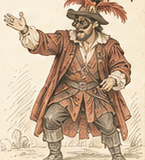
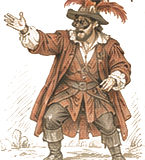
lesson 1: the leaf sprays, and ornaments that are actually cut out
I ASKED THE OWNER FOR A SPRIG I ALREADY HAD. His handoff says the assets
folder is crops from the concept rendering and that crops from it may be
used; the leaf spray is drawn eight times in that rendering. It needed
taking, not commissioning. One spray is cropped from the card corner at
(528,457)-(604,506), keyed to transparency, and set at the corner of each
principle card, beside the section heading, on the sage panel and in the
notes rail.

THE ORNAMENTS ARE CUT OUT NOW, which fixes a real defect rather than a
cosmetic one. They arrived as opaque parchment crops and were being
hidden with mix-blend-mode: multiply — which works on a parchment card
and FAILS on the terracotta panel, where the ground stayed visible as a
pink box behind the mask. The seven line-art ones are keyed in the asset
instead: parchment to alpha above a luminance threshold, ink kept below
it, a soft ramp between so the pen strokes keep their edges. The blend
mode is gone and they sit on any tint.

NOT KEYED: the hero and the notes thumbnail. Both are full-colour
paintings with bright sky and lamplight, and a luminance key would punch
holes straight through them.

sw.js bumped, and this is the case that REQUIRES it rather than merely
wanting it: seven images were REPLACED AT THEIR EXISTING PATHS. Those go
through cacheFirst, which never asks the network again, so without a bump
an installed copy would keep serving the opaque versions for good.

diff --git a/js/main.js b/js/main.js
@@ -4588,9 +4588,18 @@ function lessonOrnamentHtml(key) {
 // for CONCEPTS, practice and takeaways, and that continuous prose stays
 // prose — so this kind exists to carry the three ideas the lesson names,
 // not to chop paragraphs up.
+// THE SPRIG IS SET ONCE AND REUSED. It is decorative, so every instance
+// is aria-hidden and none of them is announced; the class decides where
+// it sits and which way round it faces.
+const SPRIG = where => (f => f
+  ? `<img class="lxc-sprig ${where}" src="${esc(f.src)}" alt="" aria-hidden="true"
+       width="${f.w}" height="${f.h}" loading="lazy" decoding="async">` : '')
+(characterFigure('cm-l01-sprig'));
+
 function principleCardsHtml(cards) {
   return `<ol class="lxc-cards">${cards.map(c => `
     <li class="lxc-card">
+      ${SPRIG('is-corner')}
       <p class="lxc-card-h"><span class="lxc-card-n" aria-hidden="true"></span>
         <span>${esc(c.title)}</span></p>
       <div class="lxc-card-b">
@@ -4609,6 +4618,7 @@ const PANEL_TONES = { sage: 'is-sage', terracotta: 'is-terracotta' };
 function lessonPanelHtml(p) {
   const tone = PANEL_TONES[p.tone] ?? PANEL_TONES.sage;
   return `<section class="lxc-panel ${tone}">
+    ${tone === PANEL_TONES.sage ? SPRIG('is-corner') : ''}
     <p class="lxc-panel-h">${esc(p.title)}</p>
     <div class="lxc-panel-b">
       <p class="lxc-panel-p">${esc(p.text)}</p>
@@ -4625,7 +4635,10 @@ function actingChapterBlocks(l, opts) {
   const from = opts?.skipFirst ? 1 : 0;
   const to = opts?.dropLast ? body.length - 1 : body.length;
   return body.slice(from, to).map(b =>
-    b.h ? `<h2 class="guide-heading">${esc(b.h)}</h2>`
+    // A section heading in the study layout carries the owner's leaf
+    // spray beside it, as his rendering sets one next to "How this
+    // course uses them". Other surfaces get the plain heading.
+    b.h ? `<h2 class="guide-heading">${esc(b.h)}${opts?.sprig ? SPRIG('is-beside') : ''}</h2>`
     : b.p ? `<p class="guide-text">${esc(b.p)}</p>`
     : b.list ? `<ul class="th-list">${b.list.map(x => `<li>${esc(x)}</li>`).join('')}</ul>`
     : b.steps ? stepCardsHtml(b.steps)
@@ -5135,7 +5148,7 @@ function renderActingLesson(id) {
             ${lead ? `<p class="guide-text lx-open-p">${esc(lead)}</p>` : ''}
           </div>
           <section class="sp-chapter lx-body" aria-label="The chapter">
-            ${actingChapterBlocks(l, { skipFirst: !!lead, dropLast: !!tailPanel })}
+            ${actingChapterBlocks(l, { skipFirst: !!lead, dropLast: !!tailPanel, sprig: true })}
             ${extras}
           </section>
           ${pairHtml}
@@ -5159,6 +5172,7 @@ function renderActingLesson(id) {
                 stroke-linecap="round" stroke-linejoin="round"><path d="M9 18h6"/>
                 <path d="M10 21.5h4"/><path d="M12 2.5a6.5 6.5 0 0 0-3.8 11.8c.5.4.8 1 .8 1.6V17h6v-1.1c0-.6.3-1.2.8-1.6A6.5 6.5 0 0 0 12 2.5Z"/>
                 </svg>Key takeaway</h3>
+              ${SPRIG('is-corner')}
               <p class="lx-take-p${l.takeaway ? ' is-lead' : ''}">${esc(take)}</p>
             </section>` : ''}
             ${marks.length ? `

diff --git a/css/style.css b/css/style.css
@@ -3423,13 +3423,33 @@ button.mask-card:hover, button.mask-card:focus-visible { border-color: var(--gre
 .lxc-card-b { display: flex; align-items: flex-end; gap: 8px; }
 .lxc-card-p { margin: 0; font-size: 14.5px; line-height: 1.55; flex: 1 1 auto; }
 
-/* THE ORNAMENTS ARE OPAQUE PARCHMENT RECTANGLES, measured at about
-   #f8ecd5 in every corner — they are crops from the owner's concept
-   rendering, not cut-outs. `multiply` drops that ground into the card's
-   own parchment so only the ink survives; without it each card wears a
-   beige box. The same trick the troupe masks in the Learn rail needed. */
-.lxc-fig { flex: 0 0 auto; display: block; max-width: 48%; height: auto;
-  mix-blend-mode: multiply; }
+/* THE ORNAMENTS ARE CUT OUT NOW, so no blend mode. They arrived as
+   opaque parchment crops, about #f8ecd5 in every corner, and were being
+   multiplied into the card to hide the rectangle — which works on
+   parchment and fails on the terracotta panel, where the ground stayed
+   visible as a pink box. The line-art ones are keyed to transparency in
+   the asset instead: parchment to alpha, ink kept, soft ramp between so
+   the pen strokes keep their edges. They now sit on any tint.
+   (The hero and the notes thumbnail are full-colour paintings and are
+   NOT keyed — luminance keying would punch holes through their sky.) */
+.lxc-fig { flex: 0 0 auto; display: block; max-width: 48%; height: auto; }
+
+/* ── THE LEAF SPRAY ─────────────────────────────────────────────────
+   One asset, cropped from the owner's rendering, set at the corner of
+   each card and panel and beside a section heading. Purely decorative:
+   aria-hidden everywhere, and it never takes a click. */
+.lxc-sprig { position: absolute; pointer-events: none; user-select: none; }
+.lxc-sprig.is-corner { top: 8px; right: 8px; width: 62px; height: auto;
+  opacity: .9; }
+.lxc-sprig.is-beside { position: static; display: inline-block;
+  width: 46px; height: auto; margin-left: 10px; vertical-align: -6px; }
+.lxc-card, .lxc-panel { position: relative; }
+/* The card's title must not run under the spray sitting over it. */
+.lxc-card-h { padding-right: 56px; }
+.lxc-panel-h { padding-right: 60px; }
+.lx-take { position: relative; }
+.lx-take .lxc-sprig.is-corner { top: auto; bottom: 6px; right: 6px;
+  width: 48px; opacity: .85; }
 /* The words lead and the drawing sits in beside them. At 48% of a
    250px card the ornament took half the width and squeezed the text
    into a four-word column. */

diff --git a/sw.js b/sw.js
@@ -110,7 +110,7 @@
  * blank-screen trap above. 'no-cache' is a conditional request: an
  * unchanged file costs a 304, not a download.
  */
-const VERSION = 'sc-v74';                     // 2026-11-02: lesson 1 — the same mask was drawn in both foot panels, and a leftover width rule pushed each step's drawing under its own number
+const VERSION = 'sc-v75';                     // 2026-11-02: lesson 1 — the leaf sprays, and the ornaments keyed to transparency so they sit on any tint; img replaced at existing paths, which is the case that REQUIRES a bump
 const SHELL = `${VERSION}-shell`;
 const MEDIA = `${VERSION}-media`;
 const PRECACHE = ['./', 'index.html', 'css/style.css', 'manifest.json',

diff --git a/js/data/character/art.js b/js/data/character/art.js
@@ -304,6 +304,12 @@ Object.assign(CHARACTER_FIGURES, {
   'cm-l01-reflect': l01('l01-reflect.png',
     'A pen drawing of a long-beaked leather mask lying on its side.', 140, 105),
   'cm-l01-town': l01('l01-town.png', '', 440, 150),
+  // CROPPED FROM THE OWNER'S OWN RENDERING, which his handoff allows in
+  // as many words: the assets folder is crops from it and may be used.
+  // His page sets a leaf spray at the corner of every card, beside the
+  // section heading and in the notes rail; the spray was in the picture
+  // all along and did not need commissioning.
+  'cm-l01-sprig': l01('l01-sprig.png', '', 76, 49),
 });
 
 export const characterFigure = key =>

diff --git a/CLAUDE.md b/CLAUDE.md
@@ -399,7 +399,7 @@ every learner. Ship its js/data/speech/reviews.js entry in the same commit.
 - RHETORIC_LIVE            false  js/main.js:279
 - RHETORIC_WORKSHEET_LIVE  false  js/views/context.js:244
 - ROLE_LIVE                false  js/data/character/character-course.js:65
-- SCENE_STUDY_LIVE         false  js/main.js:10446
+- SCENE_STUDY_LIVE         false  js/main.js:10460
 - SHAKESPEARE_LIVE         true   js/views/context.js:218
 - SPEECH_LIVE              false  js/views/context.js:164
 
@@ -410,11 +410,11 @@ every learner. Ship its js/data/speech/reviews.js entry in the same commit.
 - Stratagems                 38
 - Scenes                     27
 - Commedia masks             13
-- Commedia figures           44
+- Commedia figures           45
 
 ### Size
 
-- js/main.js                13654 lines
+- js/main.js                13668 lines
 - js/views/                 8 modules: action-piece.js, admin.js, context.js, dialect-action.js, ipa-tools.js, lexicon-mark.js, reference.js, script-analysis.js
 - regression check() sites  842
 
